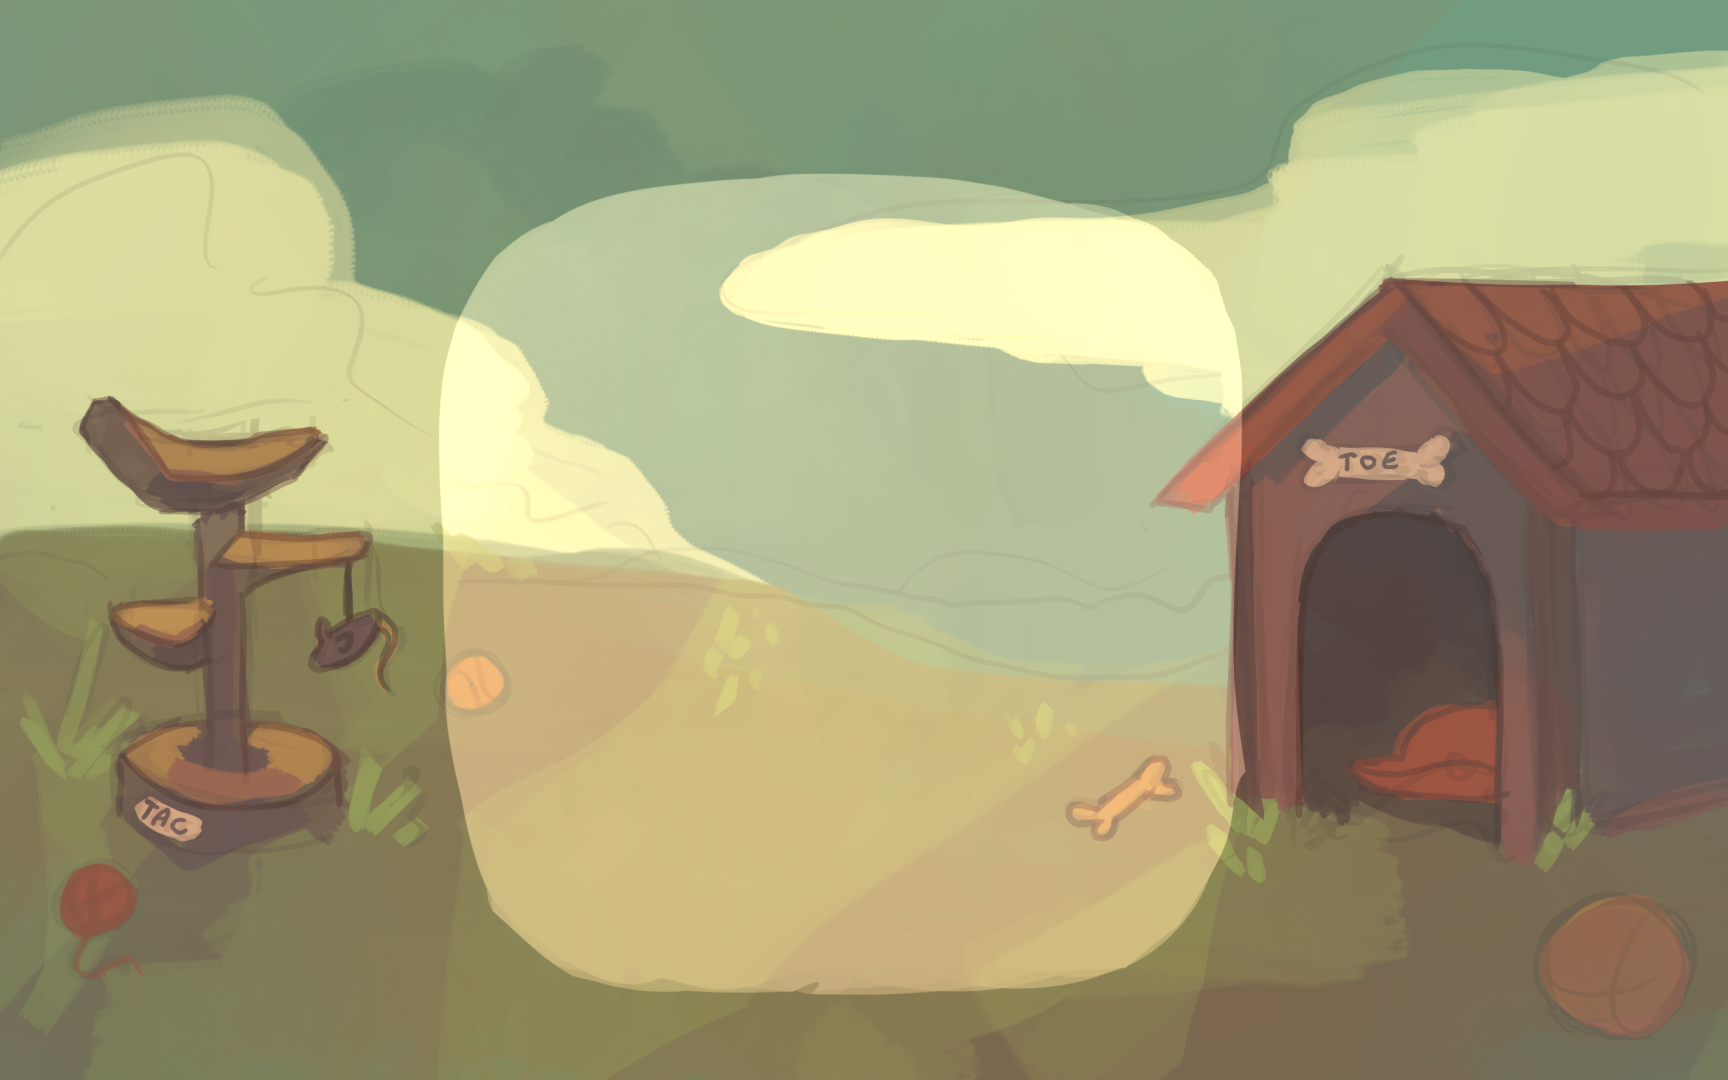
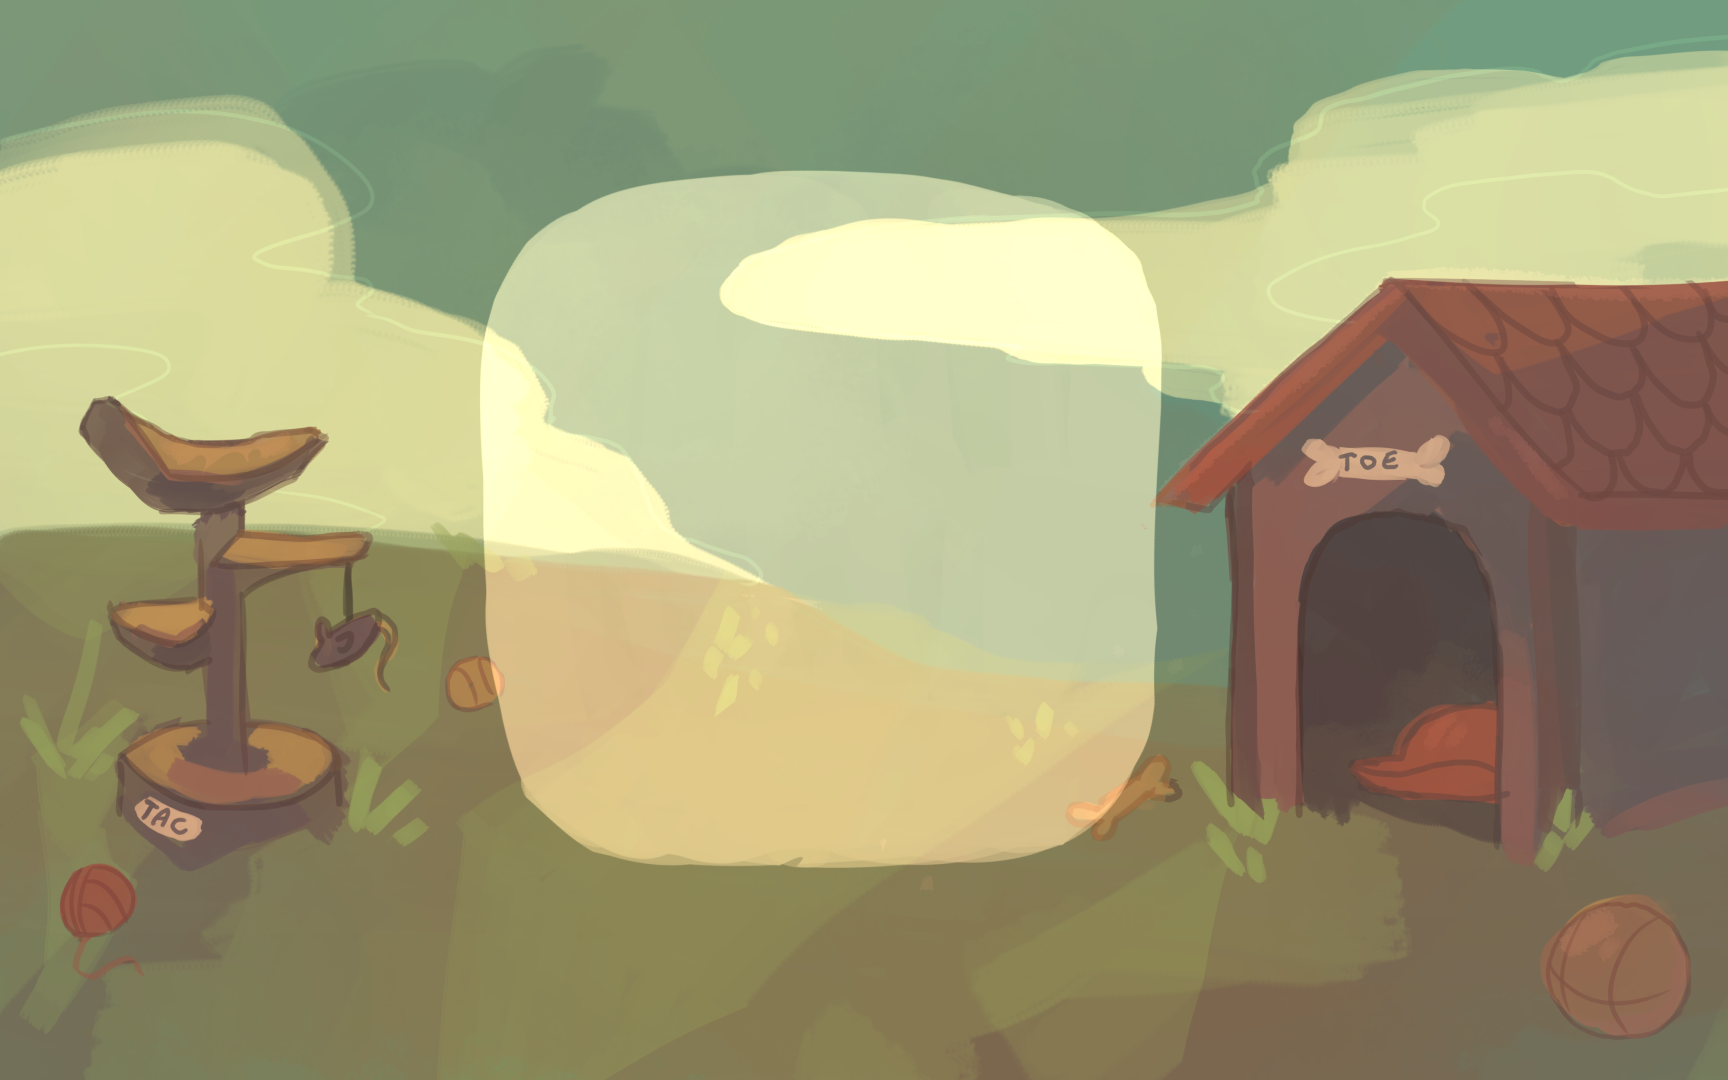
Added background

diff --git a/src/main/resources/public/style/style.css b/src/main/resources/public/style/style.css
@@ -3,19 +3,29 @@ table{
     border-style:hidden;
     margin: auto;
     margin-top: 5%;
+    margin-right: 33%;
+ 
 
 }
 td{
     border: 3px solid black;
-    width: 150px; height: 150px;
+    width: 180px; height: 180px;
 }
+
 div{
-    width: 150px;
-    height: 150px;
+    width: 180px;
+    height: 180px;
 }
 img{
-	max-width: 150px;
-    max-height: 150px;
-	width: 150px;
-	height: 150px;
+	max-width: 100%;
+    max-height: 100%;
+	width: 180px;
+	height: 180px;
+}
+
+body{
+    background-size: 100%;
+    background-image: url("/images/background.png");
+    background-repeat: no-repeat;
+    background-position: center;
 }
